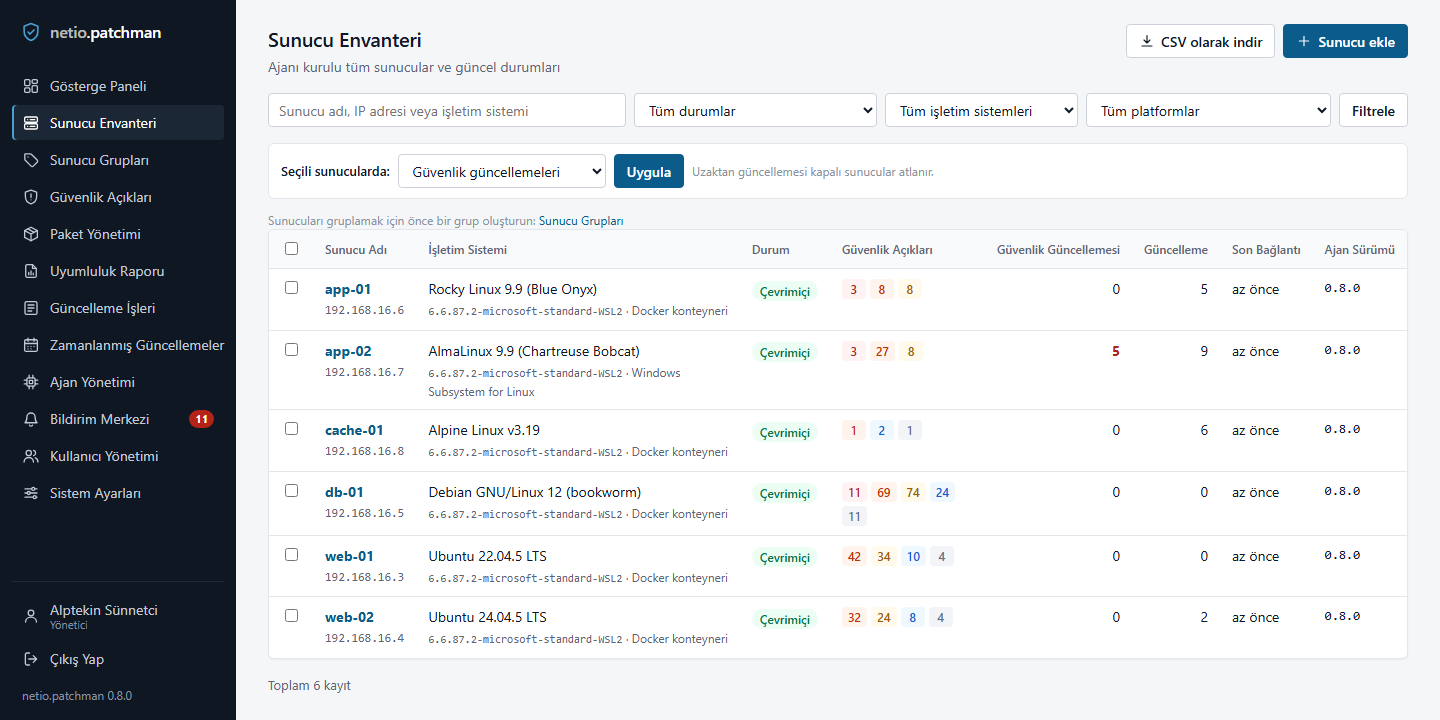
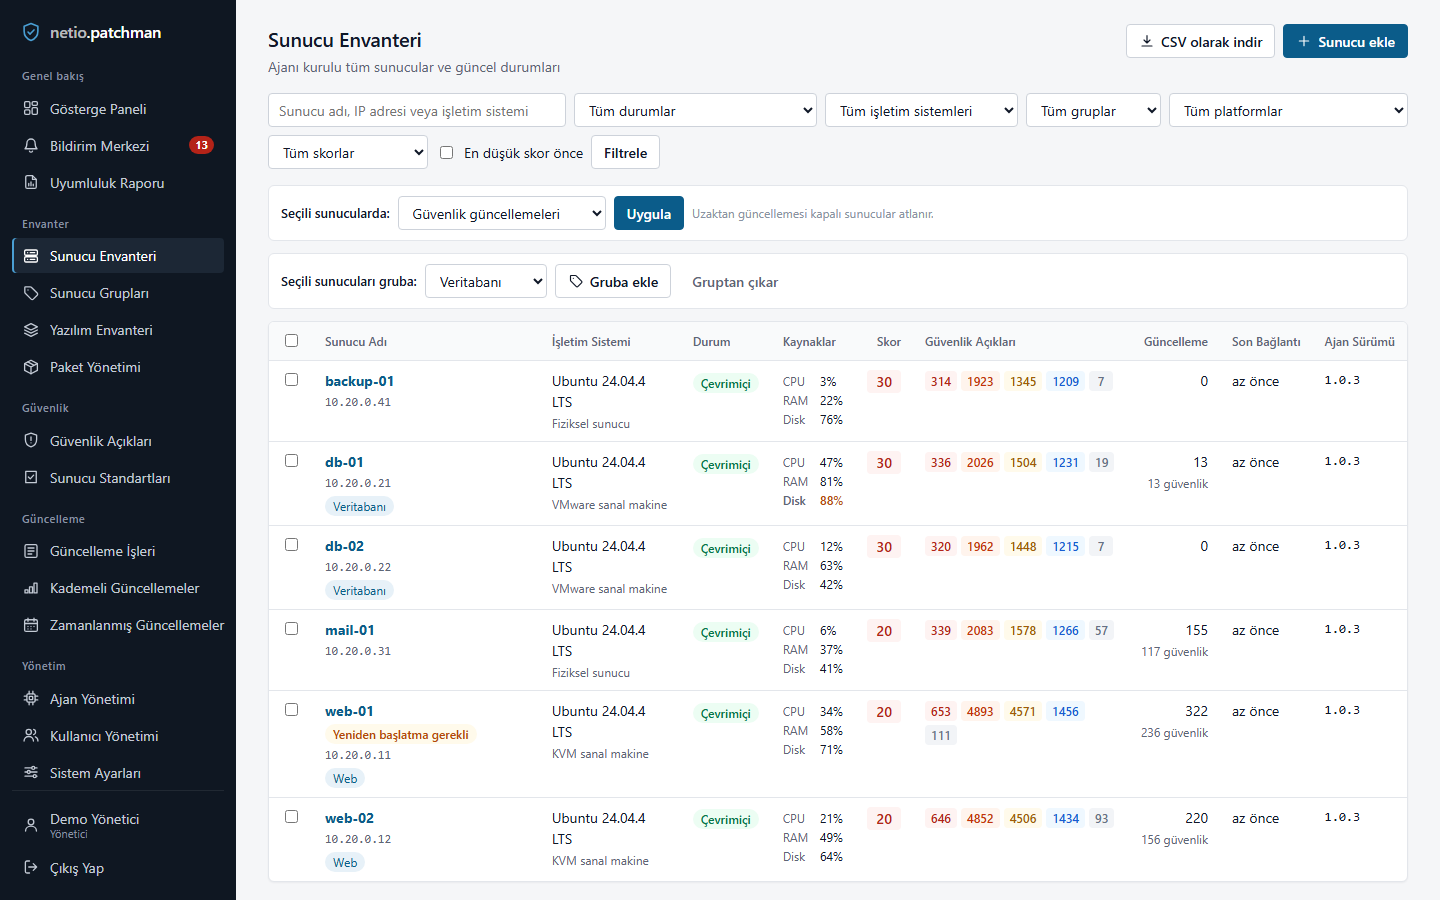
netio.patchman 1.0.3
Web UI tidied up: the settings pages share one tab bar (general, server
configuration, notification channels, health checks, security score,
audit log) with a section jump list on the general page; form section
legends aligned with field labels; the rolling update form shows only
the fields of the chosen staging; the profile page in two columns;
system tools on a server's software tab in a collapsed table; server
list with one updates column and the kernel as a tooltip.

README screenshots refreshed from Ubuntu 24.04 demo servers with real
OSV.dev data, plus resource usage and software inventory images.

diff --git a/internal/web/templates/rolloutnew.html b/internal/web/templates/rolloutnew.html
@@ -24,25 +24,29 @@
     <h2 class="panel__title">{{t "rollout.section.hosts"}}</h2>
     <fieldset class="fieldset">
       <legend>{{t "rollout.field.strategy"}}</legend>
-      <label class="check-label"><input type="radio" name="strategy" value="batches"{{if ne $f.Strategy "groups"}} checked{{end}}> {{t "rollout.strategy.batches"}}</label>
-      <div class="form-grid">
-        <label class="field"><span class="field__label">{{t "rollout.field.target"}}</span>
-          <select class="field__input" name="target">
-            <option value="all"{{if eq $f.Target "all"}} selected{{end}}>{{t "rollout.target.all"}}</option>
-            <option value="group"{{if eq $f.Target "group"}} selected{{end}}>{{t "rollout.target.group"}}</option>
-            <option value="hosts"{{if eq $f.Target "hosts"}} selected{{end}}>{{t "rollout.target.hosts"}}</option>
-          </select></label>
-        <label class="field"><span class="field__label">{{t "host.field.groups"}}</span>
-          <select class="field__input" name="group_id"><option value="0">{{t "common.empty"}}</option>{{range $d.Groups}}<option value="{{.ID}}"{{if eq .ID $f.GroupID}} selected{{end}}>{{.Name}}</option>{{end}}</select></label>
-        <label class="field"><span class="field__label">{{t "rollout.field.batch"}}</span>
-          <input class="field__input" type="number" name="batch" min="0" max="1000" value="{{$f.Batch}}">
-          <span class="field__hint">{{t "rollout.batch_hint"}}</span></label>
+      <div class="daypicker">
+        <label class="check-label"><input type="radio" name="strategy" value="batches"{{if ne $f.Strategy "groups"}} checked{{end}}> {{t "rollout.strategy.batches"}}</label>
+        <label class="check-label"><input type="radio" name="strategy" value="groups"{{if eq $f.Strategy "groups"}} checked{{end}}> {{t "rollout.strategy.groups"}}</label>
       </div>
-      {{if $d.Hosts}}<details class="details"><summary>{{t "rollout.pick_hosts"}}</summary>
-        <div class="checklist">{{range $d.Hosts}}<label class="check-label"><input type="checkbox" name="host_ids" value="{{.ID}}"{{if index $f.HostIDs .ID}} checked{{end}}> {{.Hostname}}</label>{{end}}</div>
-      </details>{{end}}
-      <label class="check-label"><input type="radio" name="strategy" value="groups"{{if eq $f.Strategy "groups"}} checked{{end}}> {{t "rollout.strategy.groups"}}</label>
-      <div class="form-grid">
+      <div data-show-when="strategy=batches">
+        <div class="form-grid">
+          <label class="field"><span class="field__label">{{t "rollout.field.target"}}</span>
+            <select class="field__input" name="target">
+              <option value="all"{{if eq $f.Target "all"}} selected{{end}}>{{t "rollout.target.all"}}</option>
+              <option value="group"{{if eq $f.Target "group"}} selected{{end}}>{{t "rollout.target.group"}}</option>
+              <option value="hosts"{{if eq $f.Target "hosts"}} selected{{end}}>{{t "rollout.target.hosts"}}</option>
+            </select></label>
+          <label class="field"><span class="field__label">{{t "host.field.groups"}}</span>
+            <select class="field__input" name="group_id"><option value="0">{{t "common.empty"}}</option>{{range $d.Groups}}<option value="{{.ID}}"{{if eq .ID $f.GroupID}} selected{{end}}>{{.Name}}</option>{{end}}</select></label>
+          <label class="field"><span class="field__label">{{t "rollout.field.batch"}}</span>
+            <input class="field__input" type="number" name="batch" min="0" max="1000" value="{{$f.Batch}}">
+            <span class="field__hint">{{t "rollout.batch_hint"}}</span></label>
+        </div>
+        {{if $d.Hosts}}<details class="details"><summary>{{t "rollout.pick_hosts"}}</summary>
+          <div class="checklist">{{range $d.Hosts}}<label class="check-label"><input type="checkbox" name="host_ids" value="{{.ID}}"{{if index $f.HostIDs .ID}} checked{{end}}> {{.Hostname}}</label>{{end}}</div>
+        </details>{{end}}
+      </div>
+      <div data-show-when="strategy=groups" class="form-grid">
         {{range $i, $sel := $f.StageGroups}}
         <label class="field"><span class="field__label">{{t "rollout.stage_n" "n" (add $i 1)}}</span>
           <select class="field__input" name="stage_group_{{$i}}"><option value="0">{{t "common.empty"}}</option>{{range $d.Groups}}<option value="{{.ID}}"{{if eq .ID $sel}} selected{{end}}>{{.Name}}</option>{{end}}</select></label>

diff --git a/internal/web/templates/server.html b/internal/web/templates/server.html
@@ -350,25 +350,26 @@
     <h2 class="panel__title">{{t "software.host_title"}}</h2>
     <a class="panel__link" href="/software?tab=compare&a={{$h.ID}}">{{t "software.compare_with"}}</a>
   </div>
-  {{if $d.Software}}
+  {{if or $d.Software $d.SystemSoftware}}
   <div class="table-wrap">
   <table class="table">
     <thead><tr><th>{{t "software.field.name"}}</th><th>{{t "software.field.version"}}</th><th>{{t "software.field.package"}}</th><th>{{t "software.field.state"}}</th><th>{{t "host.field.vulns"}}</th><th>{{t "eol.field.support"}}</th><th>{{t "software.field.first_seen"}}</th></tr></thead>
     <tbody>
-    {{range $d.Software}}
-    <tr>
-      <td><a href="/software/{{.Software}}?cycle={{.Cycle}}">{{swName .Software}}</a> <span class="muted">{{.Cycle}}</span><div class="cell-sub">{{t (printf "software.category.%s" (swCategory .Software))}}</div></td>
-      <td class="mono">{{.Version}}</td>
-      <td class="mono cell-sub">{{if .Package}}{{.Package}} {{.PackageVersion}}{{else}}<span class="muted" title="{{t "software.probed_hint"}}">{{t "software.probed"}}</span>{{end}}</td>
-      <td>{{template "running" .Running}}{{if .Service}} <span class="muted mono">{{.Service}}</span>{{end}}</td>
-      <td>{{if .CVECount}}<a href="/servers/{{$h.ID}}?q={{.Package}}">{{template "sev" .Severity}} {{t "watch.cve_count" "n" .CVECount}}</a>{{if .KnownExploited}} {{template "kev"}}{{end}}{{else}}<span class="muted">{{t "watch.no_vulns"}}</span>{{end}}</td>
-      <td>{{with eolItem $d.SoftwareEOL .Software .Cycle}}{{template "eolpill" .}}{{if .Found}}{{if not .Release.EOL.IsZero}}<div class="cell-sub">{{date .Release.EOL}}</div>{{end}}{{end}}{{if .DistroSupported}}<div class="cell-sub" title="{{t "eol.distro_hint"}}">{{t "eol.distro_supported"}}</div>{{end}}{{else}}<span class="muted">{{t "common.empty"}}</span>{{end}}</td>
-      <td><time datetime="{{iso .FirstSeenAt}}">{{date .FirstSeenAt}}</time></td>
-    </tr>
-    {{end}}
+    {{range $d.Software}}{{template "swrow" (swRow . $h.ID $d.SoftwareEOL)}}{{end}}
     </tbody>
   </table>
   </div>
+  {{with $d.SystemSoftware}}
+  <details class="details details--table">
+    <summary>{{t "software.system_tools" "n" (len .)}}</summary>
+    <div class="table-wrap">
+    <table class="table">
+      <thead><tr><th>{{t "software.field.name"}}</th><th>{{t "software.field.version"}}</th><th>{{t "software.field.package"}}</th><th>{{t "software.field.state"}}</th><th>{{t "host.field.vulns"}}</th><th>{{t "eol.field.support"}}</th><th>{{t "software.field.first_seen"}}</th></tr></thead>
+      <tbody>{{range .}}{{template "swrow" (swRow . $h.ID $d.SoftwareEOL)}}{{end}}</tbody>
+    </table>
+    </div>
+  </details>
+  {{end}}
   {{else}}{{template "empty" (t "software.host_empty")}}{{end}}
 </section>
 
@@ -525,4 +526,16 @@
 </section>
 {{end}}
 {{end}}
+{{end}}
+
+{{define "swrow"}}
+    <tr>
+      <td><a href="/software/{{.R.Software}}?cycle={{.R.Cycle}}">{{swName .R.Software}}</a> <span class="muted">{{.R.Cycle}}</span><div class="cell-sub">{{t (printf "software.category.%s" (swCategory .R.Software))}}</div></td>
+      <td class="mono">{{.R.Version}}</td>
+      <td class="mono cell-sub">{{if .R.Package}}{{.R.Package}} {{.R.PackageVersion}}{{else}}<span class="muted" title="{{t "software.probed_hint"}}">{{t "software.probed"}}</span>{{end}}</td>
+      <td>{{template "running" .R.Running}}{{if .R.Service}} <span class="muted mono">{{.R.Service}}</span>{{end}}</td>
+      <td>{{if .R.CVECount}}<a href="/servers/{{$.HostID}}?q={{.R.Package}}">{{template "sev" .R.Severity}} {{t "watch.cve_count" "n" .R.CVECount}}</a>{{if .R.KnownExploited}} {{template "kev"}}{{end}}{{else}}<span class="muted">{{t "watch.no_vulns"}}</span>{{end}}</td>
+      <td>{{with eolItem $.EOL $.R.Software $.R.Cycle}}{{template "eolpill" .}}{{if .Found}}{{if not .Release.EOL.IsZero}}<div class="cell-sub">{{date .Release.EOL}}</div>{{end}}{{end}}{{if .DistroSupported}}<div class="cell-sub" title="{{t "eol.distro_hint"}}">{{t "eol.distro_supported"}}</div>{{end}}{{else}}<span class="muted">{{t "common.empty"}}</span>{{end}}</td>
+      <td><time datetime="{{iso .R.FirstSeenAt}}">{{date .R.FirstSeenAt}}</time></td>
+    </tr>
 {{end}}

diff --git a/internal/web/templates/profile.html b/internal/web/templates/profile.html
@@ -10,8 +10,10 @@
 </header>
 {{with $d.Notice}}<p class="alert alert--success" role="status">{{.}}</p>{{end}}
 
+<div class="grid-2 profile-grid">
+<div class="stack">
 {{if gt (len .Languages) 1}}
-<section class="panel panel--narrow" id="language">
+<section class="panel" id="language">
   <h2 class="panel__title">{{t "language.label"}}</h2>
   <form class="form form--row" method="post" action="/profile/language">
     {{template "csrf" $root}}
@@ -23,7 +25,19 @@
 </section>
 {{end}}
 
-<section class="panel panel--narrow" id="mfa">
+<section class="panel">
+  <h2 class="panel__title">{{t "profile.change_password"}}</h2>
+  <form class="form" method="post" action="/profile/password">
+    {{template "csrf" $root}}
+    <label class="field"><span class="field__label">{{t "profile.current_password"}}</span><input class="field__input" type="password" name="current_password" required autocomplete="current-password"></label>
+    <label class="field"><span class="field__label">{{t "user.field.password"}}</span><input class="field__input" type="password" name="password" required minlength="10" autocomplete="new-password"><span class="field__hint">{{t "user.password_hint"}}</span></label>
+    <label class="field"><span class="field__label">{{t "user.field.password_confirm"}}</span><input class="field__input" type="password" name="password_confirm" required minlength="10" autocomplete="new-password"></label>
+    <div><button class="button button--primary" type="submit">{{t "profile.change_password"}}</button></div>
+  </form>
+</section>
+</div>
+<div class="stack">
+<section class="panel" id="mfa">
   <h2 class="panel__title">{{t "mfa.title"}}</h2>
   {{if $d.MissingMFA}}<p class="alert alert--warning">{{t "mfa.required_notice"}}</p>{{end}}
   {{with $d.RecoveryCodes}}
@@ -65,6 +79,8 @@
   <form method="post" action="/profile/mfa/setup">{{template "csrf" $root}}<button class="button button--primary" type="submit">{{template "icon" "key"}}{{t "mfa.start"}}</button></form>
   {{end}}
 </section>
+</div>
+</div>
 
 <section class="panel" id="api">
   <h2 class="panel__title">{{t "apitoken.title"}}</h2>
@@ -101,17 +117,6 @@
     <label class="field"><span class="field__label">{{t "apitoken.field.valid_days"}}</span><input class="field__input" type="number" name="valid_days" min="0" max="3650" value="90" required></label>
     {{if $root.User.CanOperate}}<label class="check-label"><input type="checkbox" name="write" value="1"> {{t "apitoken.allow_write"}}</label>{{end}}
     <div><button class="button" type="submit">{{t "apitoken.create"}}</button></div>
-  </form>
-</section>
-
-<section class="panel panel--narrow">
-  <h2 class="panel__title">{{t "profile.change_password"}}</h2>
-  <form class="form" method="post" action="/profile/password">
-    {{template "csrf" $root}}
-    <label class="field"><span class="field__label">{{t "profile.current_password"}}</span><input class="field__input" type="password" name="current_password" required autocomplete="current-password"></label>
-    <label class="field"><span class="field__label">{{t "user.field.password"}}</span><input class="field__input" type="password" name="password" required minlength="10" autocomplete="new-password"><span class="field__hint">{{t "user.password_hint"}}</span></label>
-    <label class="field"><span class="field__label">{{t "user.field.password_confirm"}}</span><input class="field__input" type="password" name="password_confirm" required minlength="10" autocomplete="new-password"></label>
-    <div><button class="button button--primary" type="submit">{{t "profile.change_password"}}</button></div>
   </form>
 </section>
 {{end}}

diff --git a/internal/web/templates/servers.html b/internal/web/templates/servers.html
@@ -108,7 +108,6 @@
         <th>{{t "host.field.resources"}}</th>
         <th class="num">{{t "score.short"}}</th>
         <th>{{t "host.field.vulns"}}</th>
-        <th class="num">{{t "host.field.security_updates"}}</th>
         <th class="num">{{t "host.field.updates"}}</th>
         <th>{{t "host.field.last_seen"}}</th>
         <th>{{t "host.field.agent_version"}}</th>
@@ -124,13 +123,12 @@
         <div class="cell-sub mono">{{join .IPAddresses ", "}}</div>
         {{if .Groups}}<div class="tags">{{range .Groups}}<a class="tag" href="/servers?group={{.ID}}">{{.Name}}</a>{{end}}</div>{{end}}
       </td>
-      <td>{{.OSName}}<div class="cell-sub"><span class="mono">{{.Kernel}}</span> · {{virt .Virtualization}}</div></td>
+      <td title="{{.Kernel}}">{{.OSName}}<div class="cell-sub">{{virt .Virtualization}}</div></td>
       <td>{{template "hoststatus" .}}</td>
       <td>{{$id := .ID}}{{with index $d.Resources .ID}}<a class="resmini" href="/servers/{{$id}}?tab=health">{{template "resval" (resval "cpu" .CPUOrLoad $d.MonitorCfg.HealthCPUWarn)}}{{template "resval" (resval "memory" .MemoryPercent $d.MonitorCfg.HealthMemoryWarn)}}{{template "resval" (resval "disk" .DiskMax $d.MonitorCfg.HealthDiskWarn)}}</a>{{else}}<span class="muted">{{t "common.empty"}}</span>{{end}}</td>
       <td class="num"><a href="/servers/{{.ID}}/score">{{template "score" .SecurityScore}}</a></td>
       <td>{{template "sevcounts" .Vulns}}</td>
-      <td class="num">{{if .SecurityUpdateCount}}<strong class="text-danger">{{.SecurityUpdateCount}}</strong>{{else}}0{{end}}</td>
-      <td class="num">{{.UpdateCount}}</td>
+      <td class="num">{{.UpdateCount}}{{if .SecurityUpdateCount}}<div class="cell-sub text-danger">{{t "host.security_updates_short" "n" .SecurityUpdateCount}}</div>{{end}}</td>
       <td><time datetime="{{iso .LastSeenAt}}" title="{{datetime .LastSeenAt}}">{{ago .LastSeenAt}}</time></td>
       <td class="mono">{{.AgentVersion}}{{if agentOutdated .}} <span class="pill pill--warning" title="{{t "agents.update.outdated_hint" "version" agentRelease}}">{{t "agents.update.outdated"}}</span>{{end}}</td>
     </tr>

diff --git a/internal/web/templates/settings.html b/internal/web/templates/settings.html
@@ -7,14 +7,11 @@
     <h1 class="pagehead__title">{{t "nav.settings"}}</h1>
     <p class="pagehead__sub">{{t "settings.subtitle"}}</p>
   </div>
-  <div class="pagehead__actions">
-    <a class="button" href="/settings/system">{{template "icon" "settings"}}{{t "settings.system_link"}}</a>
-    <a class="button" href="/settings/channels">{{template "icon" "bell"}}{{t "channels.title"}}</a>
-    <a class="button" href="/settings/score">{{template "icon" "shield"}}{{t "score.settings_title"}}</a>
-    <a class="button" href="/settings/health">{{template "icon" "refresh"}}{{t "health.title"}}</a>
-    <a class="button" href="/settings/audit">{{template "icon" "list"}}{{t "audit.title"}}</a>
-  </div>
 </header>
+{{template "settingsnav" "general"}}
+<nav class="chips settings-jump" aria-label="{{t "settings.jump"}}">
+  {{range list "email" "agents" "scan" "security" "updates" "monitoring" "sla" "inventory" "backup"}}<a class="chip" href="#{{.}}">{{t (printf "settings.section.%s" .)}}</a>{{end}}
+</nav>
 
 <form class="form" method="post" action="/settings">
   {{template "csrf" $root}}
@@ -40,7 +37,7 @@
     <label class="check-label"><input type="checkbox" name="email_server_update" value="1"{{if $c.EmailServerUpdate}} checked{{end}}> {{t "settings.email.server_update"}}</label>
   </section>
 
-  <section class="panel">
+  <section class="panel" id="agents">
     <h2 class="panel__title">{{t "settings.agent.title"}}</h2>
     <label class="check-label"><input type="checkbox" name="agent_auto_update" value="1"{{if $c.AgentAutoUpdate}} checked{{end}}> {{t "settings.agent.auto_update"}}</label>
     <p class="field__hint">{{t "settings.agent.auto_update_hint"}}</p>
@@ -54,7 +51,7 @@
     </div>
   </section>
 
-  <section class="panel">
+  <section class="panel" id="scan">
     <h2 class="panel__title">{{t "settings.scan.title"}}</h2>
     <label class="check-label"><input type="checkbox" name="scan_enabled" value="1"{{if $c.ScanEnabled}} checked{{end}}> {{t "settings.scan.enabled"}}</label>
     <p class="field__hint">{{t "settings.scan.sources"}}</p>

diff --git a/internal/web/static/app.css b/internal/web/static/app.css
@@ -328,8 +328,8 @@ fieldset.field > legend { padding: 0; margin-bottom: 6px; }
 .progress__seg--bad { background: var(--danger); }
 .progress__seg--run { background: var(--info); }
 /* Grouped form fields */
-.fieldset { border: 1px solid var(--border); border-radius: var(--radius); padding: 12px 16px; margin: 0; display: grid; gap: 12px; }
-.fieldset legend { padding: 0 6px; color: var(--text-muted); font-size: 13px; }
+/* A group of related fields: the legend reads like a field label. */
+.fieldset legend { padding: 0; margin-bottom: 8px; font-size: 13px; font-weight: 600; color: var(--text); }
 /* Watch (star) toggle next to a package name */
 .star-form { display: inline; margin: 0; }
 .star { display: inline-flex; align-items: center; gap: 6px; padding: 2px; border: 0; background: transparent; color: var(--text-subtle); font: inherit; cursor: pointer; vertical-align: middle; border-radius: var(--radius-sm); }
@@ -536,3 +536,15 @@ select.field__input { padding-right: 28px; }
 /* Sidebar sections. */
 .navgroup { margin: 14px 10px 4px; font-size: 11px; font-weight: 600; letter-spacing: 0.04em; color: var(--text-subtle); }
 .sidebar__nav .navgroup:first-child { margin-top: 0; }
+
+/* Settings: tabs shared by the settings pages and a jump list of sections. */
+.settings-tabs { margin-bottom: 16px; }
+.settings-jump { margin: -4px 0 16px; }
+.settings-jump .chip { font-size: 12px; padding: 3px 10px; }
+section[id] { scroll-margin-top: 16px; }
+.stack { display: flex; flex-direction: column; gap: 16px; min-width: 0; }
+.stack > .panel { margin: 0; }
+.profile-grid { margin-bottom: 16px; align-items: start; }
+@media (max-width: 1000px) { .profile-grid { grid-template-columns: minmax(0, 1fr); } }
+.details--table { border-top: 1px solid var(--border); }
+.details--table > summary { padding: 12px 16px; color: var(--text-muted); font-size: 13px; }

diff --git a/internal/web/templates/base.html b/internal/web/templates/base.html
@@ -82,6 +82,15 @@
 
 {{define "langlinks"}}{{if gt (len .Languages) 1}}<p class="auth__langs" aria-label="{{t "language.label"}}">{{range $i, $l := .Languages}}{{if $i}} · {{end}}{{if $l.Current}}<strong>{{$l.Name}}</strong>{{else}}<a href="/lang?to={{$l.Locale}}&amp;next={{$.Path}}" hreflang="{{$l.Locale}}">{{$l.Name}}</a>{{end}}{{end}}</p>{{end}}{{end}}
 
+{{define "settingsnav"}}<nav class="tabs settings-tabs" aria-label="{{t "nav.settings"}}">
+  <a class="tab{{if eq . "general"}} is-active{{end}}" href="/settings">{{t "settings.tab.general"}}</a>
+  <a class="tab{{if eq . "system"}} is-active{{end}}" href="/settings/system">{{t "settings.system_link"}}</a>
+  <a class="tab{{if eq . "channels"}} is-active{{end}}" href="/settings/channels">{{t "channels.title"}}</a>
+  <a class="tab{{if eq . "health"}} is-active{{end}}" href="/settings/health">{{t "health.title"}}</a>
+  <a class="tab{{if eq . "score"}} is-active{{end}}" href="/settings/score">{{t "score.settings_title"}}</a>
+  <a class="tab{{if eq . "audit"}} is-active{{end}}" href="/settings/audit">{{t "audit.title"}}</a>
+</nav>{{end}}
+
 {{define "trendfigs"}}
   <div class="trends{{if eq (len .) 1}} trends--single{{end}}">
     {{range .}}

diff --git a/internal/web/templates/channel.html b/internal/web/templates/channel.html
@@ -12,6 +12,7 @@
     <form method="post" action="/settings/channels/{{$c.ID}}/test">{{template "csrf" $root}}<button class="button" type="submit">{{t "channel.test"}}</button></form>
   </div>
 </header>
+{{template "settingsnav" "channels"}}
 
 <section class="panel">
   <h2 class="panel__title">{{t "channel.filter_title"}}</h2>

diff --git a/internal/web/templates/system.html b/internal/web/templates/system.html
@@ -13,6 +13,7 @@
       <button class="button" type="submit">{{template "icon" "refresh"}}{{t "system.reset"}}</button></form>
   </div>{{end}}
 </header>
+{{template "settingsnav" "system"}}
 
 <form class="form" method="post" action="/settings/system" autocomplete="off">
   {{template "csrf" $root}}

diff --git a/internal/web/templates/healthchecks.html b/internal/web/templates/healthchecks.html
@@ -9,6 +9,7 @@
     <p class="pagehead__sub">{{t "health.subtitle"}}</p>
   </div>
 </header>
+{{template "settingsnav" "health"}}
 <p class="alert alert--info">{{t "health.monitor_note"}} <a href="/settings#monitoring">{{t "health.monitor_settings"}}</a></p>
 
 <section class="panel panel--flush">

diff --git a/internal/web/templates/scoresettings.html b/internal/web/templates/scoresettings.html
@@ -9,6 +9,7 @@
     <p class="pagehead__sub">{{t "score.settings_subtitle"}}</p>
   </div>
 </header>
+{{template "settingsnav" "score"}}
 
 <form class="form" method="post" action="/settings/score">
   {{template "csrf" $root}}

diff --git a/internal/web/templates/audit.html b/internal/web/templates/audit.html
@@ -9,6 +9,7 @@
     <p class="pagehead__sub">{{t "audit.subtitle"}}</p>
   </div>
 </header>
+{{template "settingsnav" "audit"}}
 <section class="panel panel--flush">
   {{if $d.Rows}}
   <div class="table-wrap">
